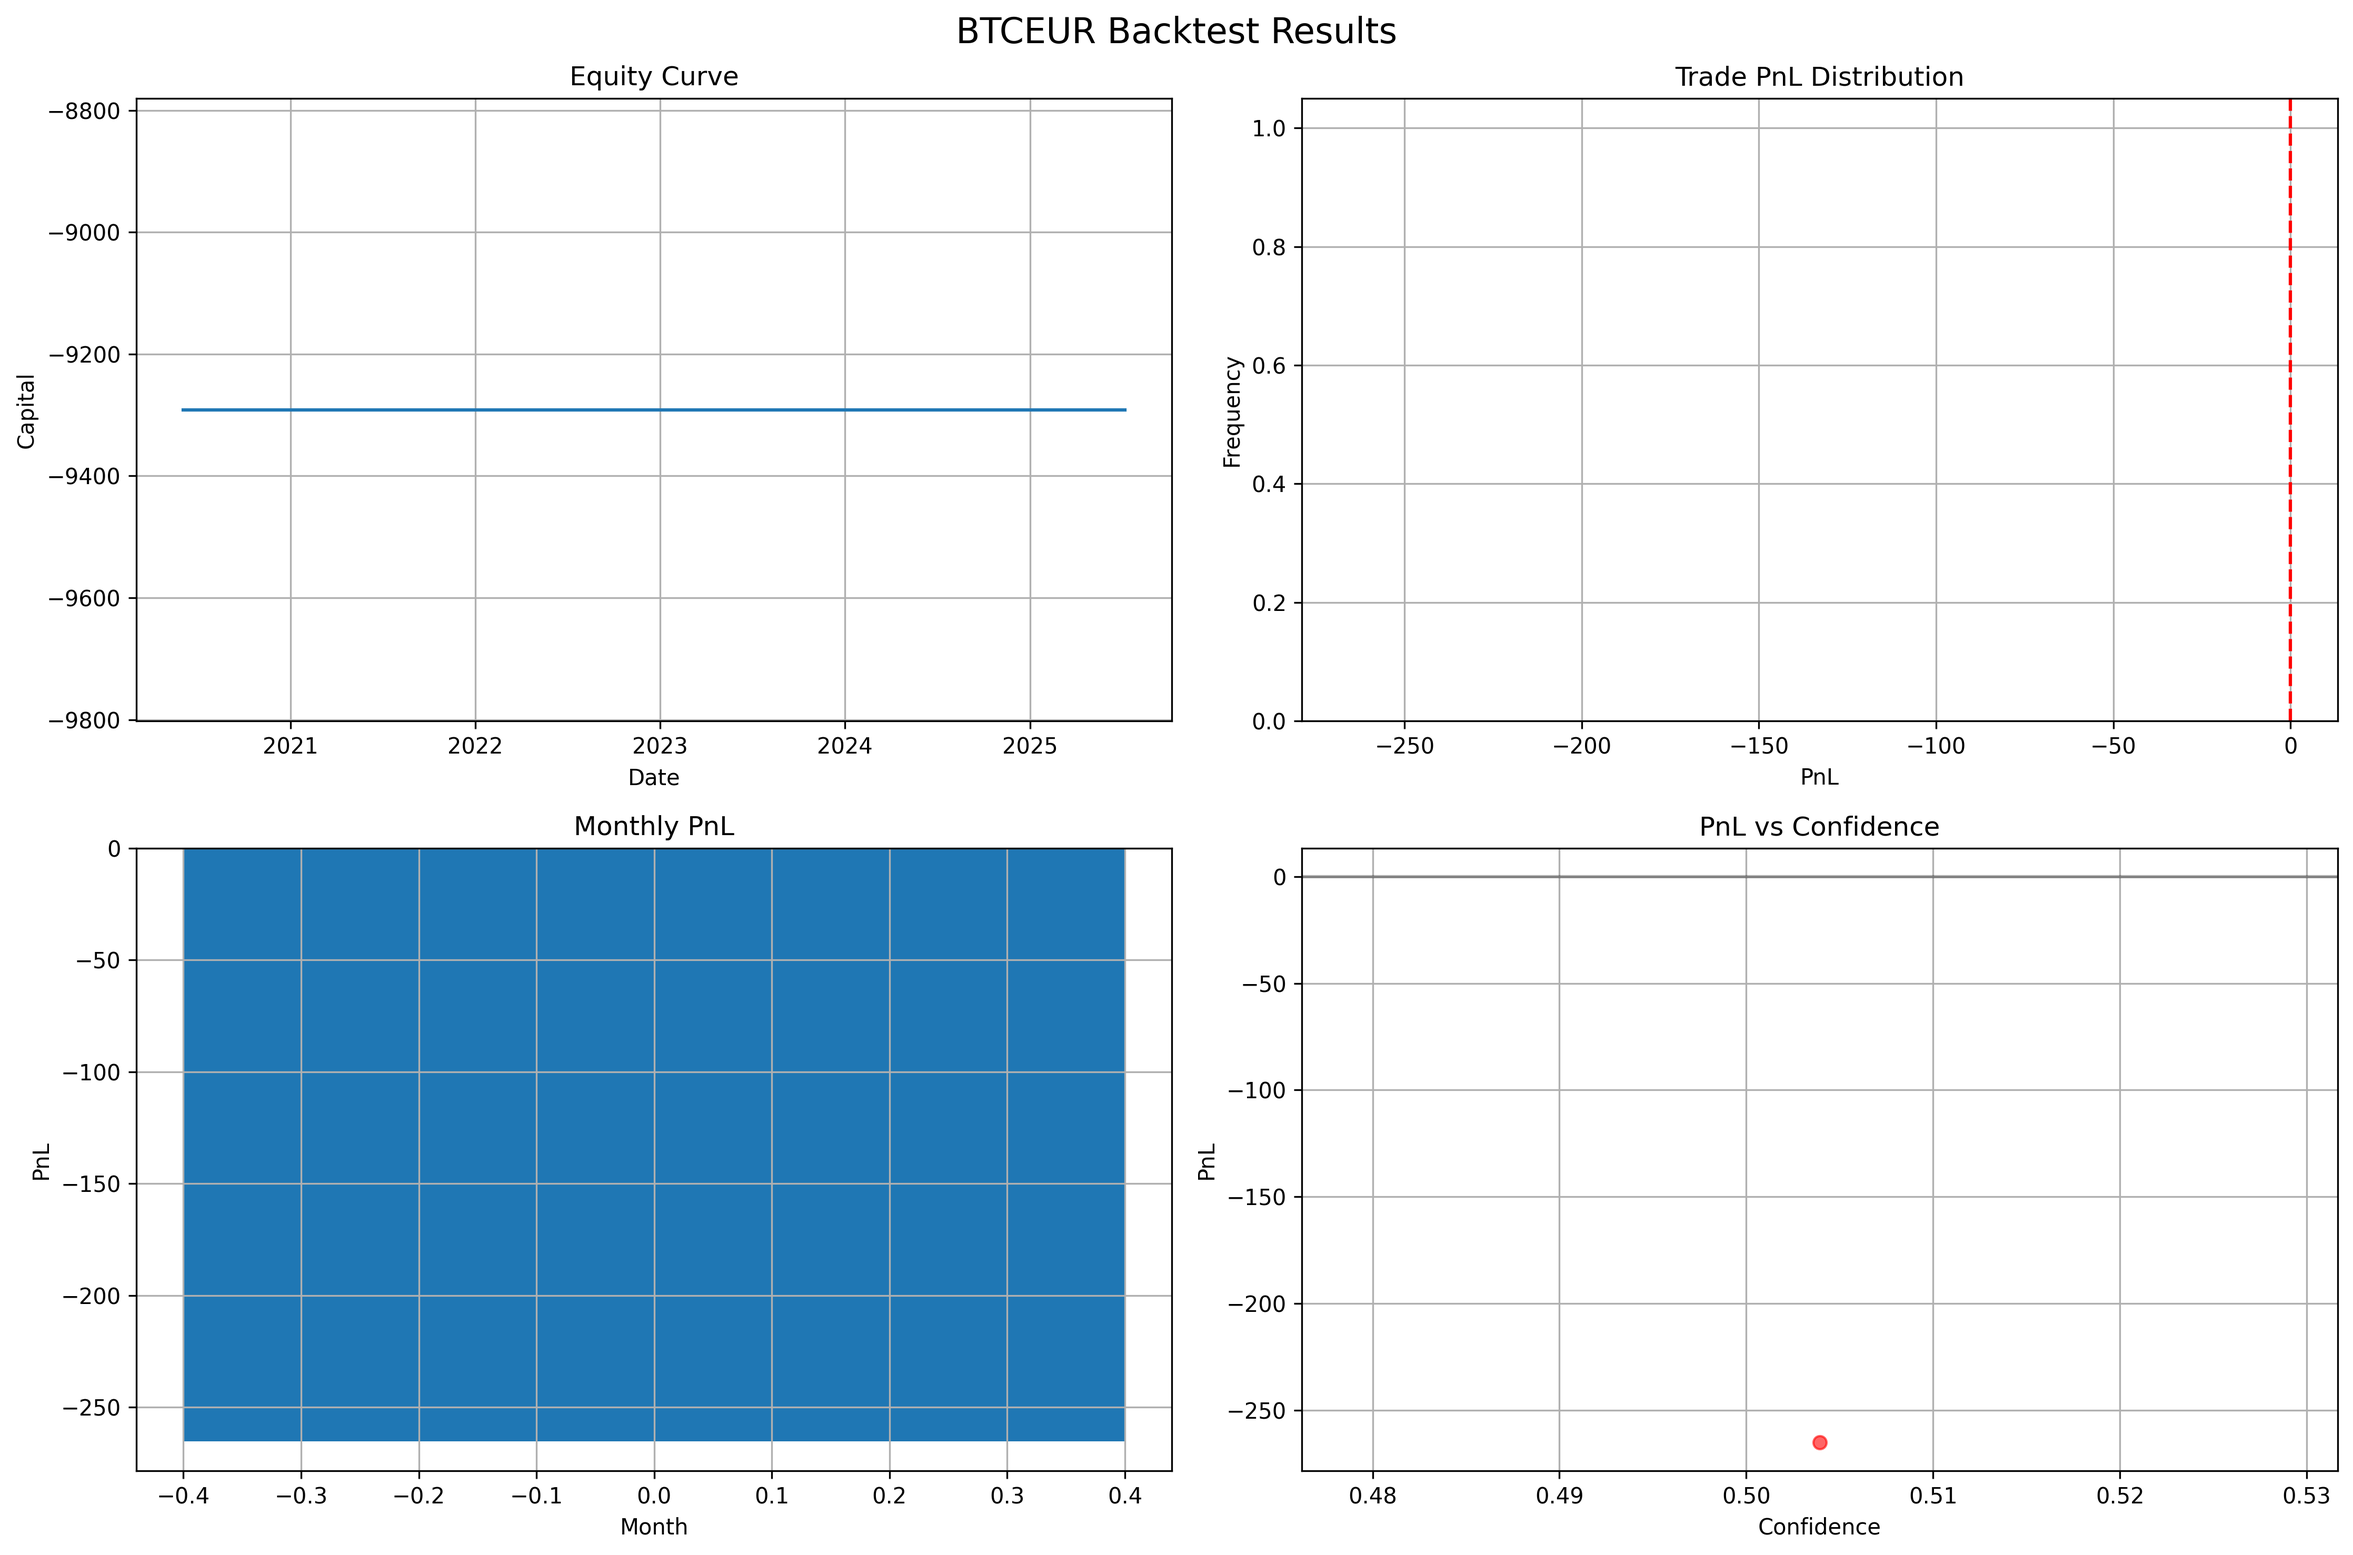
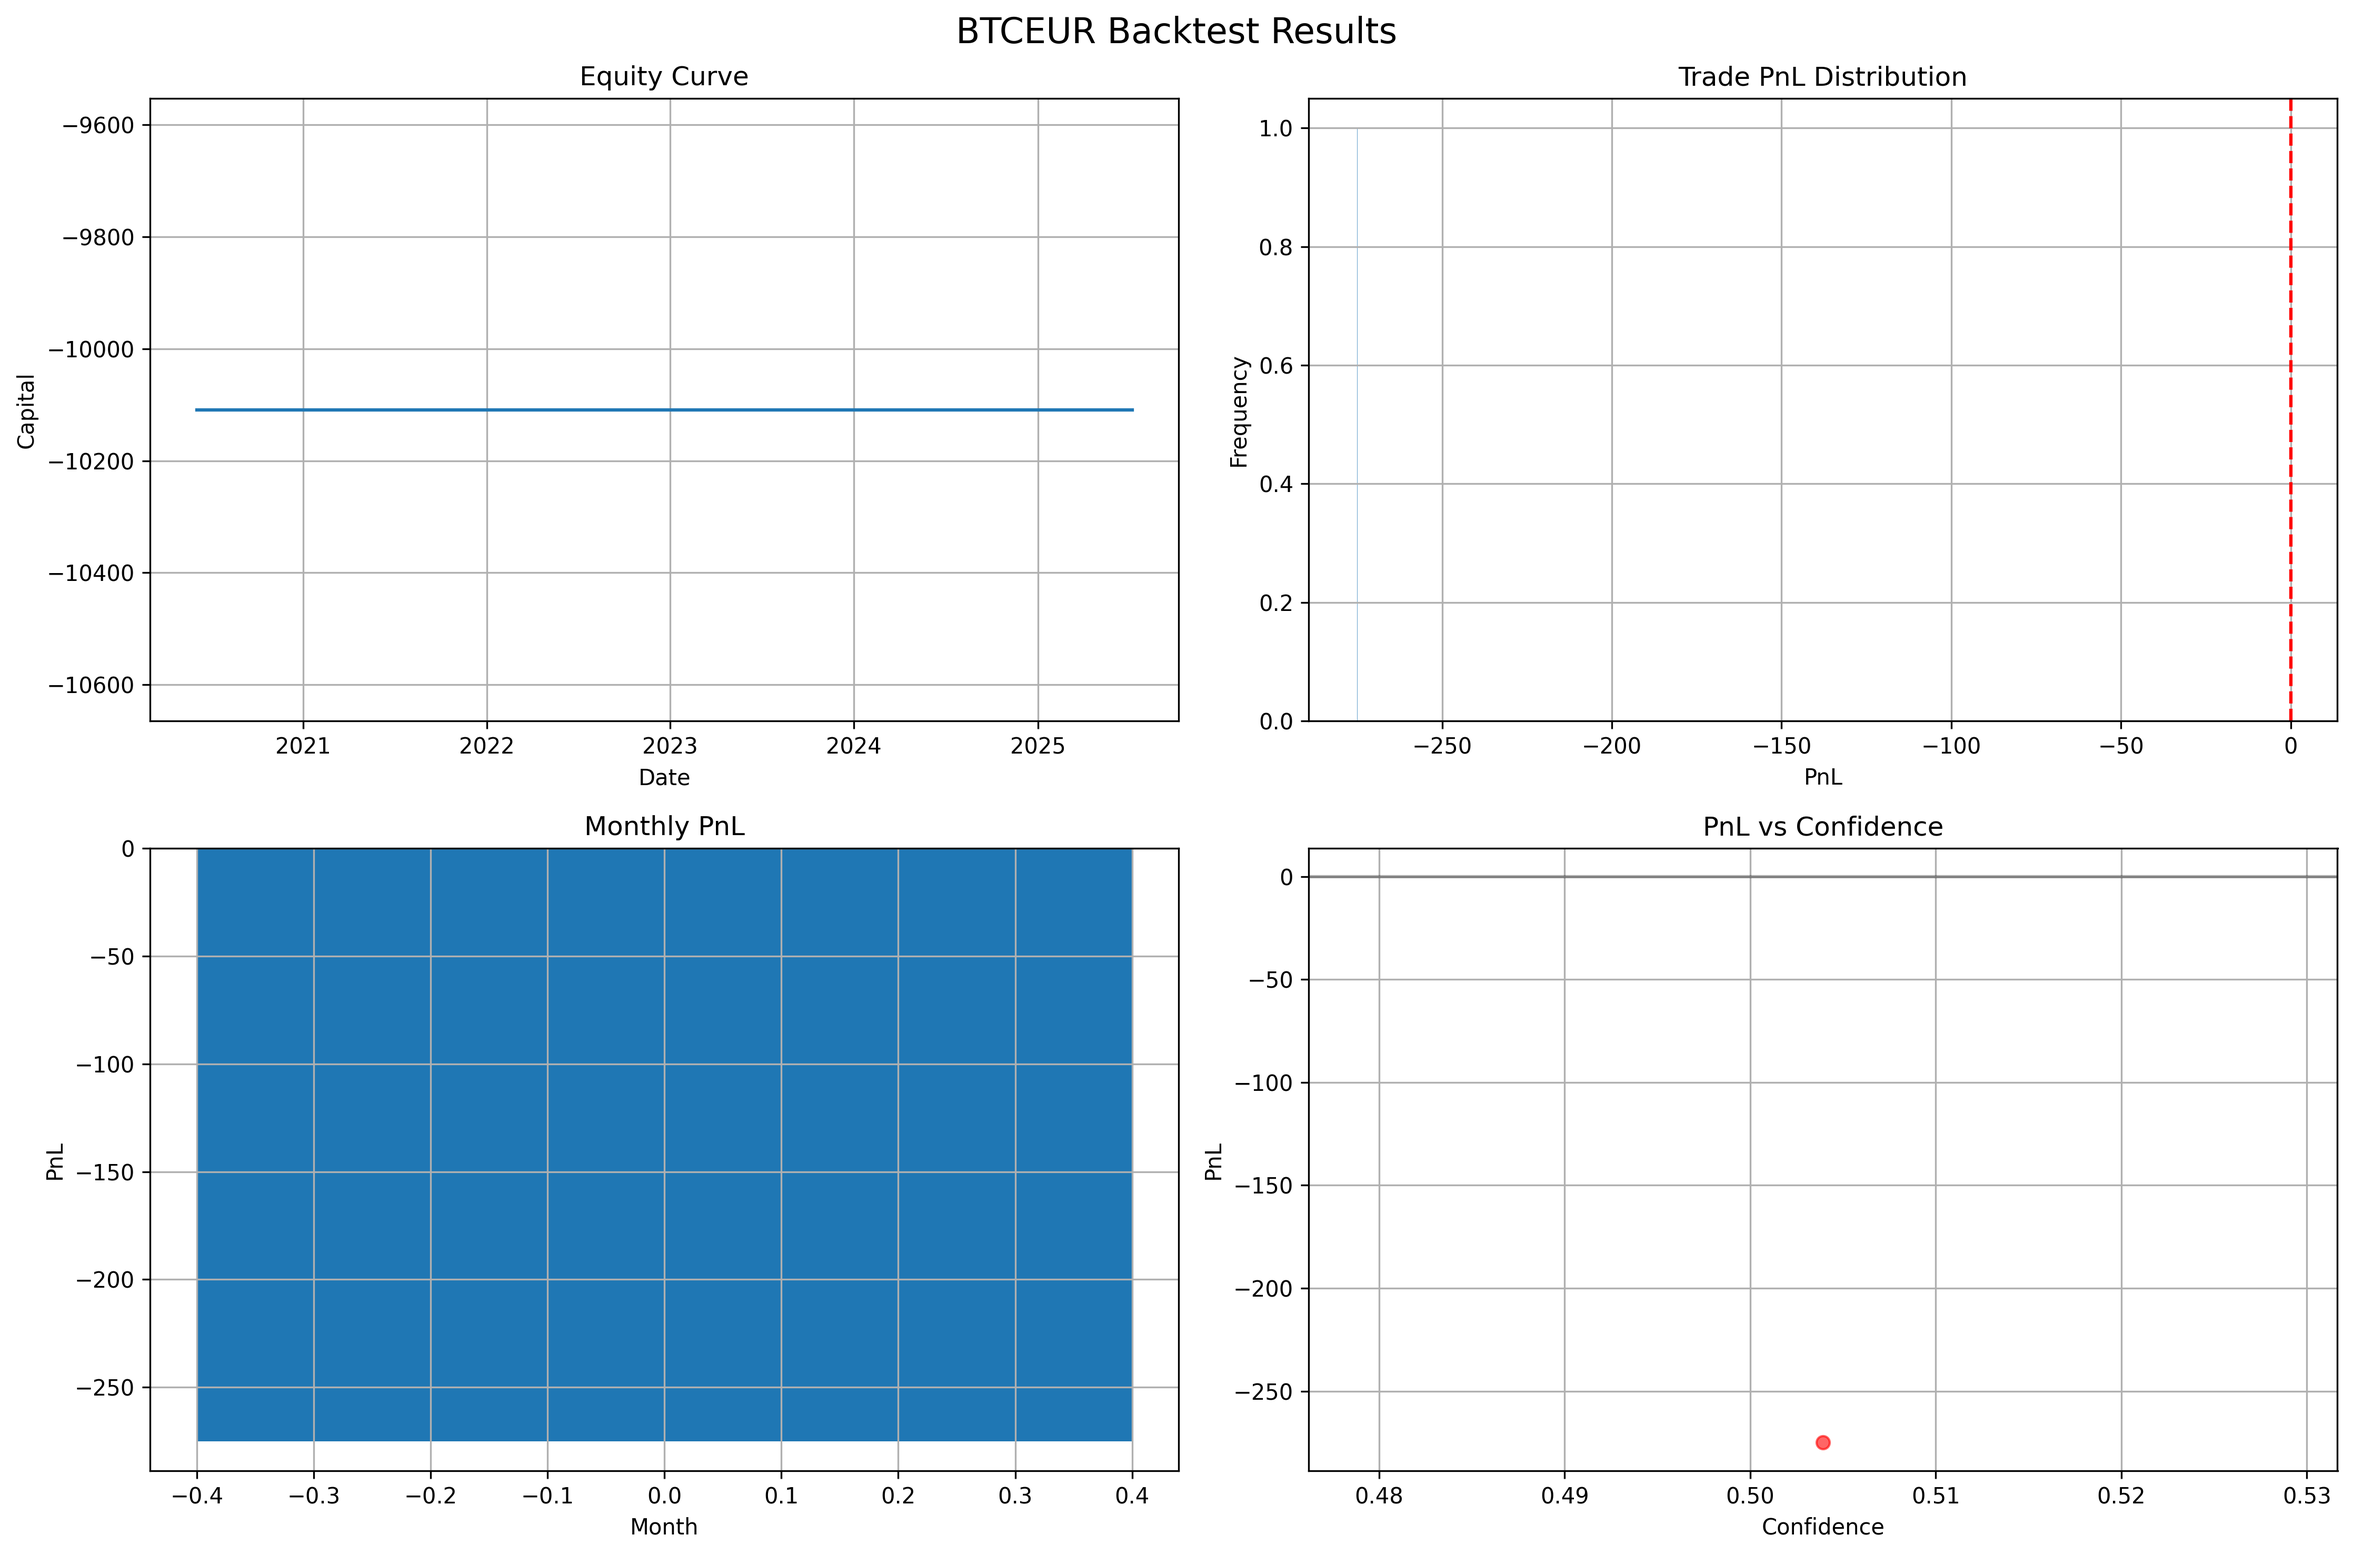
Added high_frequency mode with ultra-aggressive parameters for 5+ trades per day

diff --git a/optimized_variables.py b/optimized_variables.py
@@ -54,9 +54,9 @@ class ParameterSpace:
         Initialize parameter space based on optimization mode
         
         Args:
-            optimization_mode: 'conservative', 'balanced', 'aggressive', 'profit_focused'
+            optimization_mode: 'conservative', 'balanced', 'aggressive', 'profit_focused', 'high_frequency'
         """
-        # Base parameter ranges - EXTREMELY aggressive for 20+ trades per month target
+        # Base parameter ranges optimized for different trading frequencies
         if optimization_mode == 'conservative':
             self.param_bounds = {
                 'buy_threshold': (0.502, 0.58),         # Nearly neutral for maximum trades
@@ -78,6 +78,18 @@ class ParameterSpace:
                 'take_profit_pct': (0.04, 0.12),         # Aggressive targets
                 'max_capital_per_trade': (0.08, 0.18),   # Larger positions
                 'max_positions': (8, 15),                # More positions
+            }
+        elif optimization_mode == 'high_frequency':
+            # NEW: Ultra-aggressive parameters for 5+ trades per day target
+            self.param_bounds = {
+                'buy_threshold': (0.500, 0.515),         # VERY close to neutral for maximum trades
+                'sell_threshold': (0.485, 0.500),        # VERY close to neutral for maximum trades
+                'lstm_delta_threshold': (0.00005, 0.001), # EXTREMELY sensitive
+                'risk_per_trade': (0.005, 0.02),         # Lower risk to enable more trades
+                'stop_loss_pct': (0.008, 0.025),         # Tighter stop loss for quick exits
+                'take_profit_pct': (0.01, 0.04),         # Smaller profit targets for quick wins
+                'max_capital_per_trade': (0.03, 0.08),   # Smaller positions to enable more trades
+                'max_positions': (10, 20),               # Many positions allowed
             }
         elif optimization_mode == 'profit_focused':
             self.param_bounds = {
@@ -106,7 +118,7 @@ class ParameterSpace:
         self.fixed_params = {
             'trading_fee': 0.002,        # Realistic crypto trading fees
             'slippage': 0.001,           # Conservative slippage estimate
-            'max_trades_per_hour': 3,    # Prevent overtrading
+            'max_trades_per_hour': 5,    # Allow more trades per hour for high frequency
             'initial_capital': 10000.0,  # Standard starting capital
         }
         
@@ -185,14 +197,14 @@ class ScientificOptimizer:
         
         # Switch to very aggressive parameter ranges
         self.param_space.param_bounds = {
-            'buy_threshold': (0.502, 0.55),          # Extremely low for maximum trades
-            'sell_threshold': (0.45, 0.498),          # Extremely high for maximum trades
-            'lstm_delta_threshold': (0.0001, 0.005),  # Ultra-sensitive
-            'risk_per_trade': (0.01, 0.03),          # Moderate risk
-            'stop_loss_pct': (0.015, 0.04),          # Balanced stop loss
-            'take_profit_pct': (0.03, 0.08),         # Conservative targets for reliability
-            'max_capital_per_trade': (0.05, 0.15),   # Balanced positions
-            'max_positions': (8, 15),                # More positions allowed
+            'buy_threshold': (0.500, 0.510),          # EXTREMELY low for maximum trades
+            'sell_threshold': (0.490, 0.500),          # EXTREMELY high for maximum trades
+            'lstm_delta_threshold': (0.00001, 0.002),  # ULTRA-sensitive
+            'risk_per_trade': (0.005, 0.02),          # Lower risk for more trades
+            'stop_loss_pct': (0.008, 0.03),          # Tighter stop loss
+            'take_profit_pct': (0.01, 0.05),         # Smaller targets for quick wins
+            'max_capital_per_trade': (0.03, 0.10),   # Smaller positions
+            'max_positions': (10, 20),                # Many positions allowed
         }
         
         # Update bounds for optimization
@@ -488,18 +500,24 @@ class ScientificOptimizer:
         """Calculate objective value from metrics"""
         total_trades = metrics.get('total_trades', 0)
         
-        # Very permissive trade requirement - just need at least 1 trade for valid evaluation
-        if total_trades < 1:
+        # For high frequency trading, we need a minimum number of trades
+        # Target: 5+ trades per day, so for backtesting period we need proportional trades
+        min_trades_required = 1
+        
+        if total_trades < min_trades_required:
             if self.verbose:
-                print(f"      ❌ No trades generated - returning penalty")
+                print(f"      ❌ Insufficient trades ({total_trades}) - returning penalty")
             return -999
         elif total_trades < 3:
             if self.verbose:
-                print(f"      ⚠  Few trades ({total_trades}) but allowing evaluation with penalty")
-            # Small penalty for few trades but still allow evaluation
-            penalty_factor = 0.5  # 50% penalty for having very few trades
+                print(f"      ⚠  Few trades ({total_trades}) but allowing evaluation with smaller penalty")
+            # Smaller penalty for few trades to encourage any trading
+            penalty_factor = 0.8  # 20% penalty for having very few trades
         else:
             penalty_factor = 1.0  # No penalty for sufficient trades
+            # Bonus for high trade frequency
+            if total_trades >= 10:
+                penalty_factor = 1.1  # 10% bonus for high frequency
         
         base_objective = 0
         if self.objective == 'sharpe_ratio':
@@ -515,7 +533,7 @@ class ScientificOptimizer:
         else:
             base_objective = metrics.get('total_return', -999)  # Default to total return
         
-        # Apply penalty factor for few trades
+        # Apply penalty/bonus factor for trade frequency
         return base_objective * penalty_factor if base_objective > -990 else base_objective
     
     def _sample_random_params(self) -> Dict[str, float]:
@@ -600,52 +618,51 @@ class ScientificOptimizer:
         """Standard normal PDF"""
         return np.exp(-0.5 * x**2) / np.sqrt(2 * np.pi)
 
-    # Add this to your optimization script to see raw model outputs
-    def debug_model_outputs(symbol, days=7):
-        """Debug raw model outputs before thresholds are applied"""
-        from paper_trader.config.settings import TradingSettings
-        from paper_trader.data.bitvavo_collector import BitvavoDataCollector
-        from paper_trader.models.feature_engineer import FeatureEngineer
-        from paper_trader.models.model_loader import WindowBasedModelLoader, WindowBasedEnsemblePredictor
-        import pandas as pd
-        import asyncio
-    
-        settings = TradingSettings()
-    
+def debug_model_outputs(symbol, days=7):
+    """Debug raw model outputs before thresholds are applied"""
+    from paper_trader.config.settings import TradingSettings
+    from paper_trader.data.bitvavo_collector import BitvavoDataCollector
+    from paper_trader.models.feature_engineer import FeatureEngineer
+    from paper_trader.models.model_loader import WindowBasedModelLoader, WindowBasedEnsemblePredictor
+    import pandas as pd
+    import asyncio
+
+    settings = TradingSettings()
+
     # Initialize data collector with proper API credentials
-        data_collector = BitvavoDataCollector(
-            api_key=settings.bitvavo_api_key,
-            api_secret=settings.bitvavo_api_secret,
-            interval=settings.candle_interval,
-            settings=settings
-        )
-    
-        feature_engineer = FeatureEngineer()
-        model_loader = WindowBasedModelLoader(settings.model_path)
-        predictor = WindowBasedEnsemblePredictor(
-            model_loader=model_loader,
-            settings=settings
-        )
-    
+    data_collector = BitvavoDataCollector(
+        api_key=settings.bitvavo_api_key,
+        api_secret=settings.bitvavo_api_secret,
+        interval=settings.candle_interval,
+        settings=settings
+    )
+
+    feature_engineer = FeatureEngineer()
+    model_loader = WindowBasedModelLoader(settings.model_path)
+    predictor = WindowBasedEnsemblePredictor(
+        model_loader=model_loader,
+        settings=settings
+    )
+
     # Get historical data
-        print(f"Getting {days} days of historical data for {symbol}...")
-        data = asyncio.run(data_collector.get_historical_data(symbol, limit=days*1440))  # days * minutes per day
-    
+    print(f"Getting {days} days of historical data for {symbol}...")
+    data = asyncio.run(data_collector.get_historical_data(symbol, limit=days*1440))  # days * minutes per day
+
     if data is None or len(data) < 100:
         print(f"❌ Insufficient data for {symbol}: {len(data) if data is not None else 0} candles")
         return
-    
+
     # Engineer features
     features_df = feature_engineer.engineer_features(data)
     if features_df is None:
         print("❌ Feature engineering failed")
         return
-    
+
     # Make predictions
     predictions = []
     confidences = []
     signals = []
-    
+
     for i in range(min(100, len(features_df) - settings.sequence_length)):
         window = features_df.iloc[i:i+settings.sequence_length]
         pred_result = predictor.predict(window)
@@ -653,7 +670,7 @@ class ScientificOptimizer:
             predictions.append(pred_result)
             confidences.append(pred_result.get('confidence', 0))
             signals.append(pred_result.get('signal_strength', 'NONE'))
-    
+
     # Analyze distribution
     if confidences:
         print("\n====== MODEL OUTPUT DISTRIBUTION ======")
@@ -695,7 +712,7 @@ class ScientificOptimizer:
         
         for signal, count in signal_counts.items():
             print(f"{signal}: {count} ({count/len(signals)*100:.1f}%)")
-    
+
     else:
         print("❌ No predictions generated")
 
@@ -815,9 +832,9 @@ Examples:
     parser.add_argument('--method', choices=['bayesian', 'grid'], default='bayesian',
                        help='Optimization method (default: bayesian)')
     
-    parser.add_argument('--mode', choices=['conservative', 'balanced', 'aggressive', 'profit_focused'],
-                       default='profit_focused',
-                       help='Optimization mode determining parameter ranges (default: profit_focused)')
+    parser.add_argument('--mode', choices=['conservative', 'balanced', 'aggressive', 'profit_focused', 'high_frequency'],
+                       default='high_frequency',
+                       help='Optimization mode determining parameter ranges (default: high_frequency)')
     
     parser.add_argument('--objective', choices=['sharpe_ratio', 'total_return', 'calmar_ratio', 'profit_factor'],
                        default='profit_factor',
